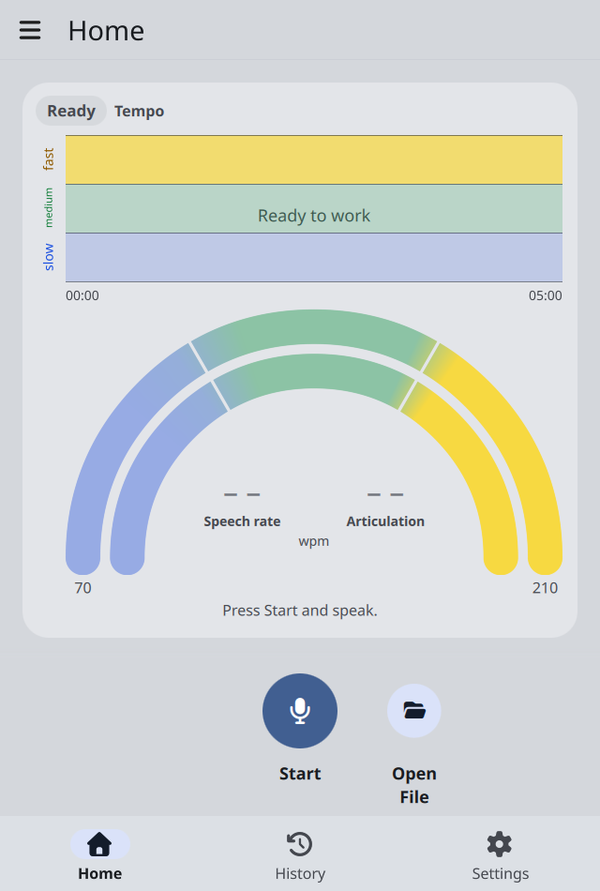
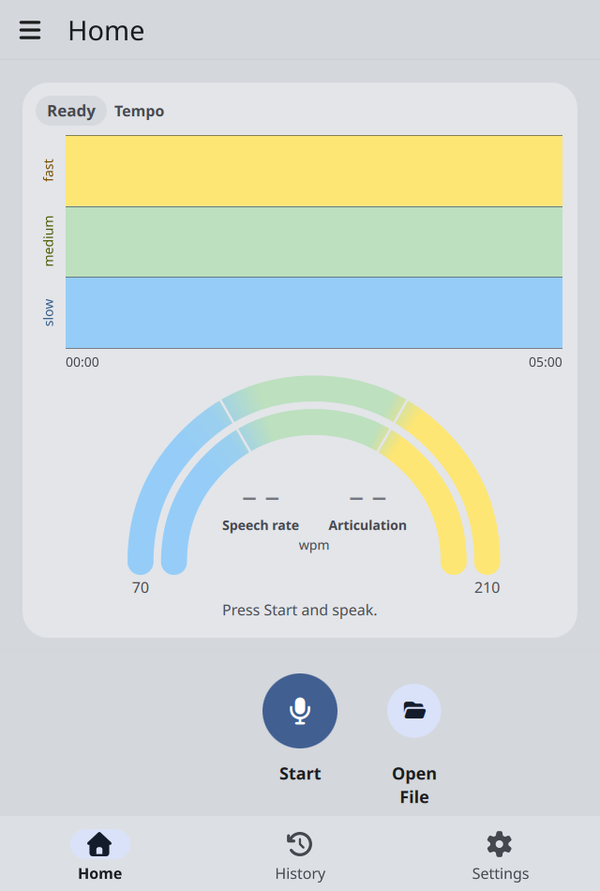
Update gauge and tempo chart colors for improved clarity
- Changed the gauge and tempo chart colors to use gold for the Fast zone instead of bright yellow, enhancing visibility for users with color-vision deficiencies.
- Adjusted the documentation in user guides and technical descriptions to reflect the new color scheme and ensure consistency across languages.
- Improved the rendering logic in the UI components to align with the updated color palette, ensuring a cohesive user experience.

Changed region(s): [[0.06, 0.1515, 0.96, 0.6667], [0.36, 0.6667, 0.63, 0.697], [0.48, 0.7879, 0.51, 0.8182]]

diff --git a/ui/utils/Theme.qml b/ui/utils/Theme.qml
@@ -436,24 +436,19 @@ Item {
     }
 
     // Speech-rate zones: 0 = Slow, 1 = Average, 2 = Fast.
-    // These inks are for the zone name and other small text. Fast is a dark
-    // gold on a light page and a light gold on a dark page, so it stays
-    // readable and is not the green of Average.
-    readonly property var zoneColorsLight: ["#1A4FE0", "#0E7C36", "#8F5A00"]
-    readonly property var zoneColorsDark: ["#6B96FF", "#3DDE6A", "#FFE08A"]
-    // Tracks and chart bands. Medium is a clear green and fast is a bright
-    // yellow, so the two zones stay apart. The chart paints slow and medium
-    // as a light wash (zoneBandAlpha) and fast a step stronger
-    // (zoneFastBandAlpha). The gauge scale uses the same hues.
-    readonly property var zoneTracksLight: ["#2E5BDE", "#149446", "#FFD400"]
-    readonly property var zoneTracksDark: ["#8AABFF", "#3DDE6A", "#FFE03A"]
+    // Inks for the zone name and other small text. Each clears 4.5:1 on the
+    // card. Fast is gold, so it stays readable and is not the green of Average.
+    readonly property var zoneColorsLight: ["#305C8A", "#4A5C00", "#7A4E00"]
+    readonly property var zoneColorsDark: ["#6B96FF", "#C6E070", "#FFE08A"]
     // Pace curves. The chart line and the arc that follows it use the same
-    // colour: articulation blue, speech rate green. They do not change
-    // with the zone.
-    readonly property color speechSeriesLight: "#1BB34A"
-    readonly property color speechSeriesDark: "#3DDE6A"
-    readonly property color articulationSeriesLight: "#1A4FE0"
-    readonly property color articulationSeriesDark: "#6B96FF"
+    // colour: articulation blue, speech rate green. They do not change with
+    // the zone. On a light page the lines are dark, and on a dark page they
+    // are light, so they stay apart from the blue, green, and gold bands
+    // and from the zone names.
+    readonly property color speechSeriesLight: "#146C2E"
+    readonly property color speechSeriesDark: "#7DFFA8"
+    readonly property color articulationSeriesLight: "#1A3FBF"
+    readonly property color articulationSeriesDark: "#D6E4FF"
     // Left inset of the tempo plot. Zone words sit here. The pace arc ends
     // line up with the coloured plot, not with this gutter.
     readonly property real chartZoneGutter: AppScale.fs(11) + 16
@@ -463,27 +458,20 @@ Item {
         return colors[Math.max(0, Math.min(2, zone))];
     }
     function zoneTrackColor(zone, theme) {
-        let colors = theme === Material.Dark ? zoneTracksDark : zoneTracksLight;
-        return colors[Math.max(0, Math.min(2, zone))];
+        return paceColor((Math.max(0, Math.min(2, zone)) + 0.5) / 3, theme);
     }
-    // Gauge scale and chart bands share these hues. Each third holds its own
-    // colour: blue, then a clear green, then a bright yellow. Fast is lighter
-    // and more yellow than the green middle, on both themes.
-    readonly property color paceSlowLight: "#2E5BDE"
-    readonly property color paceMidLight: "#149446"
-    readonly property color paceFastLight: "#FFD400"
-    readonly property color paceSlowDark: "#8AABFF"
-    readonly property color paceMidDark: "#3DDE6A"
-    readonly property color paceFastDark: "#FFE03A"
-    // Chart zone wash. Slow and medium stay faint. Fast is a stronger, purer
-    // yellow so it stays yellow on a gray card and on a near-black card,
-    // and stays apart from the green band. The curves stay in front.
-    function zoneBandAlpha(theme) {
-        return theme === Material.Dark ? 0.26 : 0.20;
-    }
-    function zoneFastBandAlpha(theme) {
-        return theme === Material.Dark ? 0.80 : 0.52;
-    }
+    // Backgrounds of the three zones, shared by the tempo chart and the arcs.
+    // Slow is blue, Average is green, Fast is gold: cool, then the normal
+    // pace, then warm. Fast is not red. Each zone is lighter than the one
+    // before it. Hue and lightness both change, so the three stay apart
+    // under protanopia, deuteranopia, and tritanopia, and the pace lines
+    // stay in front of the bands.
+    readonly property color paceSlowLight: "#95CDF8"
+    readonly property color paceMidLight: "#BDE0BF"
+    readonly property color paceFastLight: "#FDE674"
+    readonly property color paceSlowDark: "#4D5F8E"
+    readonly property color paceMidDark: "#267B3E"
+    readonly property color paceFastDark: "#A78109"
     function mixColor(c1, c2, t) {
         let u = Math.max(0, Math.min(1, t));
         return Qt.rgba(c1.r + (c2.r - c1.r) * u,

diff --git a/ui/pages/HomePage.qml b/ui/pages/HomePage.qml
@@ -156,9 +156,13 @@ Page {
     readonly property real gaugeContentWidth: Math.max(140, gaugeCardWidth - 32)
     readonly property real gaugeContentBody: Math.max(240, recordingCardHeight - 32)
     readonly property real chosenRadius: Theme.fitPaceRadius(gaugeContentWidth, gaugeContentBody, Theme.chartZoneGutter)
-    // Chart and pace arcs share this width, so the 180° ends meet the plot.
+    // Pace arcs are a quarter smaller than the semicircle that fits this card.
+    // The chart keeps that full width and takes the height the arcs give up.
+    readonly property real arcRadius: chosenRadius * 0.75
     readonly property real visualsWidth: Math.min(gaugeContentWidth,
                                                    Theme.chartZoneGutter + Theme.gaugePlotSpan(chosenRadius))
+    readonly property real arcVisualsWidth: Math.min(visualsWidth,
+                                                      Theme.chartZoneGutter + Theme.gaugePlotSpan(arcRadius))
     readonly property bool navigationLayoutFits: fitNavigation
             && layout.implicitHeight + AppScale.pagePadding * 2 <= viewportHeight + 1
 
@@ -828,8 +832,8 @@ Page {
                         Item {
                             id: gaugeSlot
                             Layout.alignment: Qt.AlignHCenter
-                            Layout.preferredWidth: root.visualsWidth
-                            Layout.maximumWidth: root.visualsWidth
+                            Layout.preferredWidth: root.arcVisualsWidth
+                            Layout.maximumWidth: root.arcVisualsWidth
                             Layout.fillHeight: false
                             readonly property real hintBlock: 4 + gaugeHint.implicitHeight + 2
                             Layout.preferredHeight: gauge.implicitHeight + hintBlock

diff --git a/ui/components/SpeechRateGauge.qml b/ui/components/SpeechRateGauge.qml
@@ -159,18 +159,12 @@ Item {
         return (1 - Math.max(0, Math.min(1, f))) / 2
     }
 
-    // Pace colours along the whole scale, toned down onto the card.
+    // Pace colours along the whole scale. Same paints as the chart bands.
     component PaceGradient: ConicalGradient {
         id: pace
-        property real alpha: 0.4
         property var gauge: root
         function tone(f) {
-            // Fast is a brighter yellow than a single wash would show, on the
-            // scale as well as on the chart. Slow and medium stay faint.
-            var a = pace.alpha
-            if (f >= 0.70)
-                a = pace.gauge.paintTheme === Material.Dark ? 0.88 : 0.72
-            return pace.gauge.paintOnCard(Theme.paceColor(f, pace.gauge.paintTheme), a)
+            return Theme.paceColor(f, pace.gauge.paintTheme)
         }
         centerX: gauge.cx
         centerY: gauge.cy
@@ -221,9 +215,7 @@ Item {
         strokeWidth: live ? gauge.stroke : 0
         strokeColor: "transparent"
         capStyle: ShapePath.RoundCap
-        strokeGradient: PaceGradient {
-            alpha: track.gauge.paintTheme === Material.Dark ? 0.36 : 0.42
-        }
+        strokeGradient: PaceGradient { }
 
         PathAngleArc {
             centerX: track.gauge.cx

diff --git a/ui/components/TempoChart.qml b/ui/components/TempoChart.qml
@@ -302,17 +302,13 @@ Item {
                 return top + (1 - (value - yMin) / valueSpan) * plotHeight
             }
 
-            // Horizontal bands match the gauge scale. Each band is the hue
-            // at the middle of that third. Fast is a brighter yellow and a
-            // slightly stronger wash so it stays apart from the green band.
+            // Horizontal bands match the gauge. Slow is blue, medium is
+            // green, fast is gold, and each band is lighter than the one below.
             var bandH = plotHeight / 3
             for (var zone = 0; zone < 3; ++zone) {
                 var yTop = top + (2 - zone) * bandH
                 var yBot = zone === 0 ? top + plotHeight : yTop + bandH
-                var bandAlpha = zone === 2
-                                ? Theme.zoneFastBandAlpha(root.paintTheme)
-                                : Theme.zoneBandAlpha(root.paintTheme)
-                ctx.fillStyle = Qt.alpha(Theme.paceColor((zone + 0.5) / 3, root.paintTheme), bandAlpha)
+                ctx.fillStyle = Theme.paceColor((zone + 0.5) / 3, root.paintTheme)
                 ctx.fillRect(left, yTop, plotWidth, Math.max(1, yBot - yTop))
             }
 

diff --git a/docs/TECHNICAL_DESCRIPTION_ru.md b/docs/TECHNICAL_DESCRIPTION_ru.md
@@ -45,7 +45,7 @@
 
 Главная не показывает карточки со значениями. Сохранённый результат по-прежнему использует для речи `Суммарное время, засчитанное как речь`, для артикуляции `Темп во время речи, без промежутков`, для заполнителей `Затянутые звуки, не слова`, для пауз `Длинные промежутки, не вся тишина`.
 
-Шкала — полукруг 180°, минимум слева, максимум справа. Концы обводки дуг темпа доходят до левого и правого края графика темпа над ней. На низком окне график и дуги делят более узкую ширину, чтобы графику осталось около 140 пикселей высоты, и концы всё равно совпадают. Она делится на три равные зоны, Медленно / Средне / Быстро. Эти зоны — шкала, по которой идёт значение. Шкала держит один оттенок в каждой трети: синий в «медленно», зелёный в «средне», яркий жёлтый в «быстро». Светлые оттенки — `#2E5BDE`, `#149446` и `#FFD400`. Тёмные — `#8AABFF`, `#3DDE6A` и `#FFE03A`. Зоны разделяет тонкий промежуток. Полосы графика используют те же оттенки ровной заливкой: «медленно» и «средне» с прозрачностью 0.20 в светлой теме и 0.26 в тёмной, «быстро» ярче — 0.52 и 0.80, и с тонкой линией на каждой границе. Линии темпа остаются в полную силу. Быстрый конец светлее зелёного среднего поля, и шкала не становится красной. Обводка значения одного цвета на всей дуге, того же, что и этот темп на графике: темп речи `#1BB34A` (тёмная `#3DDE6A`), артикуляция `#1A4FE0` (тёмная `#6B96FF`). От зоны цвет не меняется. Круглый маркер стоит на значении в том же цвете ряда. Слова зон на графике — читаемые чернила зоны (светлая `#1A4FE0` / `#0E7C36` / `#8F5A00`, тёмная `#6B96FF` / `#3DDE6A` / `#FFE08A`). Внутри дуг у каждого кольца целое стоит над именем. При «Оба» треугольник смотрит вверх: «Заполнители» — вершина, по центру верхнего ряда, а «Темп речи» и «Артикуляция» рядом на более широком ряду ниже. При одном темпе этот блок и «Заполнители» стоят рядом. Каждое имя в цвете своего кольца. `сл/мин` стоит под блоками темпа. 70 и 210 остаются на концах диаметра. На низком окне свободный круг внутри самого внутреннего кольца меньше, поэтому шрифт уменьшается, чтобы поместиться: подпись темпа — меньшее из 11 пикселей и ширины одного нижнего блока, делённой на самое длинное имя, и не ниже 8 пикселей. Вершина — узкая часть этого круга, поэтому имя «Заполнители» сжимается ещё, по хорде в этом месте, и всё равно не ниже 8 пикселей. Числа занимают оставшуюся высоту. Пока идёт запись, главная скрывает эти целые; имена остаются, и дуги продолжают двигаться, как только они на экране. Числа возвращаются после «Стоп», после «Открыть файл» и для сохранённого результата. Значение анимируется к каждому новому обновлению. Числа под концами дуги — Min RS и Max RS. По умолчанию: 70 и 210. Если напечатанный темп вне этого диапазона, маркер остаётся на ближнем конце, а число по-прежнему показывает истинное значение. Когда «Шкала» равна «Оба», артикуляция сидит внутри темпа речи, со своим маркером и теми же тремя дорожками зон. Темп речи — внешняя дуга, артикуляция — средняя. В любом режиме заполнители — ещё одно кольцо внутри той дуги темпа, которая показана: самое внутреннее, на том же центре, с той же обводкой и тем же разворотом 180°. До графика доходит внешняя обводка. Дорожка заполнителей — тот же градиент. Обводка её значения красная (светлая `#E0312B`, тёмная `#FF5C48`), по шкале 0–100, и от зоны не меняется. Подписи 0 и 100 убраны: эти концы лежат на том же диаметре, где уже стоят Min RS и Max RS. В середине — треугольник из целого и имени, вершиной вверх: «Заполнители» по центру верхнего ряда, затем «Темп речи» и «Артикуляция» рядом, а `сл/мин` под этими двумя. При одном темпе два блока стоят рядом, а `сл/мин` остаётся под блоком темпа. Число заполнителей появляется вместе с остальными целыми после «Стоп», после «Открыть файл» и для сохранённого результата и скрыто, пока идёт запись. Дуга остаётся на экране, когда «Показывать плитку заполнителей» выключена: этот переключатель прячет только карточку. Доля — процент из раздела 6.5. Пока сеанс идёт, в открытой части полукруга, между подписями концов, стоят значок микрофона и полоса цвета primary темы. Полоса — квадратный корень того же уровня микрофона, от которого растёт ореол кнопки «Старт», поэтому тихая речь всё равно её двигает. В тишине полоса пуста, а значок приглушён. Когда сеанс выключен, индикатора нет; в истории его тоже нет.
+Шкала — полукруг 180°, минимум слева, максимум справа. Концы обводки дуг темпа доходят до левого и правого края графика темпа над ней. На низком окне график и дуги делят более узкую ширину, чтобы графику осталось около 140 пикселей высоты, и концы всё равно совпадают. Она делится на три равные зоны, Медленно / Средне / Быстро. Эти зоны — шкала, по которой идёт значение. Шкала держит один оттенок в каждой трети: синий в «медленно», зелёный в «средне», золотистый в «быстро». Светлые цвета — `#95CDF8`, `#BDE0BF` и `#FDE674`. Тёмные — `#4D5F8E`, `#267B3E` и `#A78109`. Зоны разделяет тонкий промежуток. Полосы графика и дорожки дуг используют эти цвета ровной заливкой, одной и той же на обоих, с тонкой линией на каждой границе. Каждая зона светлее той, что ниже, так что ступени различимы и при нарушении цветового зрения, а линии темпа остаются впереди. Быстрый конец — самое светлое поле, и шкала не становится красной. Обводка значения одного цвета на всей дуге, того же, что и этот темп на графике: темп речи `#146C2E` (тёмная `#7DFFA8`), артикуляция `#1A3FBF` (тёмная `#D6E4FF`). От зоны цвет не меняется. На светлой странице линии тёмные, на тёмной — светлые, так что зелёная линия не сливается с зелёной полосой, а синяя — с синей. Круглый маркер стоит на значении в том же цвете ряда. Слова зон на графике — читаемые чернила зоны (светлая `#305C8A` / `#4A5C00` / `#7A4E00`, тёмная `#6B96FF` / `#C6E070` / `#FFE08A`). Внутри дуг у каждого кольца целое стоит над именем. При «Оба» треугольник смотрит вверх: «Заполнители» — вершина, по центру верхнего ряда, а «Темп речи» и «Артикуляция» рядом на более широком ряду ниже. При одном темпе этот блок и «Заполнители» стоят рядом. Каждое имя в цвете своего кольца. `сл/мин` стоит под блоками темпа. 70 и 210 остаются на концах диаметра. На низком окне свободный круг внутри самого внутреннего кольца меньше, поэтому шрифт уменьшается, чтобы поместиться: подпись темпа — меньшее из 11 пикселей и ширины одного нижнего блока, делённой на самое длинное имя, и не ниже 8 пикселей. Вершина — узкая часть этого круга, поэтому имя «Заполнители» сжимается ещё, по хорде в этом месте, и всё равно не ниже 8 пикселей. Числа занимают оставшуюся высоту. Пока идёт запись, главная скрывает эти целые; имена остаются, и дуги продолжают двигаться, как только они на экране. Числа возвращаются после «Стоп», после «Открыть файл» и для сохранённого результата. Значение анимируется к каждому новому обновлению. Числа под концами дуги — Min RS и Max RS. По умолчанию: 70 и 210. Если напечатанный темп вне этого диапазона, маркер остаётся на ближнем конце, а число по-прежнему показывает истинное значение. Когда «Шкала» равна «Оба», артикуляция сидит внутри темпа речи, со своим маркером и теми же тремя дорожками зон. Темп речи — внешняя дуга, артикуляция — средняя. В любом режиме заполнители — ещё одно кольцо внутри той дуги темпа, которая показана: самое внутреннее, на том же центре, с той же обводкой и тем же разворотом 180°. До графика доходит внешняя обводка. Дорожка заполнителей — тот же градиент. Обводка её значения красная (светлая `#E0312B`, тёмная `#FF5C48`), по шкале 0–100, и от зоны не меняется. Подписи 0 и 100 убраны: эти концы лежат на том же диаметре, где уже стоят Min RS и Max RS. В середине — треугольник из целого и имени, вершиной вверх: «Заполнители» по центру верхнего ряда, затем «Темп речи» и «Артикуляция» рядом, а `сл/мин` под этими двумя. При одном темпе два блока стоят рядом, а `сл/мин` остаётся под блоком темпа. Число заполнителей появляется вместе с остальными целыми после «Стоп», после «Открыть файл» и для сохранённого результата и скрыто, пока идёт запись. Дуга остаётся на экране, когда «Показывать плитку заполнителей» выключена: этот переключатель прячет только карточку. Доля — процент из раздела 6.5. Пока сеанс идёт, в открытой части полукруга, между подписями концов, стоят значок микрофона и полоса цвета primary темы. Полоса — квадратный корень того же уровня микрофона, от которого растёт ореол кнопки «Старт», поэтому тихая речь всё равно её двигает. В тишине полоса пуста, а значок приглушён. Когда сеанс выключен, индикатора нет; в истории его тоже нет.
 
 Главная, сверху вниз:
 

diff --git a/docs/TECHNICAL_DESCRIPTION.md b/docs/TECHNICAL_DESCRIPTION.md
@@ -41,7 +41,7 @@ Gauge (`General/gaugeMode`, default Speech rate) chooses what the arc draws. Spe
 
 Home does not show the value cards. A saved result uses Speech `Total time counted as speech`, Articulation `Pace while speaking, gaps left out`, Fillers `Drawn-out sounds, not words`, and Pauses `Longer gaps, not all silence`.
 
-The gauge is a 180° semicircle, minimum at the left and maximum at the right. The ends of the pace-arc stroke meet the left and right edges of the tempo chart above it. On a short window the chart and the arcs share a narrower width so the chart keeps about 140 px of height and the ends still meet. It is split into three equal zones, Slow / Average / Fast. Those zones are the scale the value runs on. The scale holds one hue in each third: blue through Slow, green through Average, and a bright yellow through Fast. Light hues are `#2E5BDE`, `#149446`, and `#FFD400`. Dark hues are `#8AABFF`, `#3DDE6A`, and `#FFE03A`. A thin gap separates the three zones. The chart bands use those same hues as a flat wash, alpha 0.20 on a light theme and 0.26 on a dark theme for Slow and Average. Fast uses a higher alpha, 0.52 light and 0.80 dark, so the yellow stays bright on both cards, with a thin line on each border. The pace lines stay at full strength. Fast stays lighter than the green average field, and the scale does not turn red. The value stroke is one colour for the whole arc, the same colour as that pace on the chart: speech rate `#1BB34A` (dark `#3DDE6A`), articulation `#1A4FE0` (dark `#6B96FF`). It does not change with the zone. A round marker sits at the value in that series colour. The zone words on the chart use a readable ink of the zone (light `#1A4FE0` / `#0E7C36` / `#8F5A00`, dark `#6B96FF` / `#3DDE6A` / `#FFE08A`). Inside the arcs, each ring has its integer above its name. With both paces the triangle points up: Fillers is the apex, centred on the upper row, and Speech rate and Articulation sit side by side on the wider row below. With one pace, that block and Fillers sit side by side. Each name uses the colour of its ring. `wpm` sits with the pace blocks, under them. 70 and 210 stay at the ends of the diameter. On a short window the clear disc inside the innermost ring is smaller, so the type shrinks to fit: a pace caption is the smaller of 11 px and the width of one lower block divided across the longest name, and it is never below 8 px. The apex is the narrow part of that disc, so the Fillers name shrinks further to the chord there, still not below 8 px. The numbers use the height that remains. While recording, Home prints those integers above the names, and the arcs keep moving once they are on screen. After Stop, after Open File, and for a saved result the same place shows the session summary. The value animates to each new update. The numbers under the two ends are Min RS and Max RS. Defaults: 70 and 210. If the printed rate sits outside that range, the marker rests on the near end and the number still shows the real value. When Gauge is Both, articulation sits inside speech rate, with its own marker and the same three zone tracks. Speech rate is the outer arc and articulation is the middle one. Either way, fillers is one more ring inside the pace arc that is showing: the innermost, on the same centre, with the same stroke and the same 180° sweep. The outer stroke is what meets the chart. The fillers track is that same gradient. Its value stroke is red (light `#E0312B`, dark `#FF5C48`), on a 0–100 scale, and it does not change with the zone. The 0 and 100 captions are omitted, because those ends share the diameter already labeled with Min RS and Max RS. The middle is a triangle of integer and name pointing up: Fillers centred on the upper row, then Speech rate and Articulation side by side, with `wpm` under those two. With one pace the two blocks sit side by side and `wpm` stays under the pace block. The fillers integer appears with the other integers while recording, after Stop, after Open File, and for a saved result. The arc stays on screen when Show Fillers tile is off; that switch only hides the card. The share is the percent from section 6.5. While a session is on, a microphone mark and a bar sit in the open part of the semicircle, between the end labels, in the theme primary color. The bar is the square root of the same microphone level that grows the Start button halo, so quiet speech still moves it. Silence leaves the bar empty and the mark muted. The meter is hidden when the session is off, and History does not show it.
+The gauge is a 180° semicircle, minimum at the left and maximum at the right. The ends of the pace-arc stroke meet the left and right edges of the tempo chart above it. On a short window the chart and the arcs share a narrower width so the chart keeps about 140 px of height and the ends still meet. It is split into three equal zones, Slow / Average / Fast. Those zones are the scale the value runs on. The scale holds one hue in each third: blue through Slow, green through Average, and gold through Fast. Light colours are `#95CDF8`, `#BDE0BF`, and `#FDE674`. Dark colours are `#4D5F8E`, `#267B3E`, and `#A78109`. A thin gap separates the three zones. The chart bands and the arc tracks use those colours flat, the same paint on both, with a thin line on each border. Each zone is lighter than the one below it, so the steps stay apart for people with colour-vision deficiency, and the pace lines stay in front. Fast stays the lightest field, and the scale does not turn red. The value stroke is one colour for the whole arc, the same colour as that pace on the chart: speech rate `#146C2E` (dark `#7DFFA8`), articulation `#1A3FBF` (dark `#D6E4FF`). It does not change with the zone. On a light page the lines are dark, and on a dark page they are light, so a green line stays apart from the green band and a blue line stays apart from the blue band. A round marker sits at the value in that series colour. The zone words on the chart use a readable ink of the zone (light `#305C8A` / `#4A5C00` / `#7A4E00`, dark `#6B96FF` / `#C6E070` / `#FFE08A`). Inside the arcs, each ring has its integer above its name. With both paces the triangle points up: Fillers is the apex, centred on the upper row, and Speech rate and Articulation sit side by side on the wider row below. With one pace, that block and Fillers sit side by side. Each name uses the colour of its ring. `wpm` sits with the pace blocks, under them. 70 and 210 stay at the ends of the diameter. On a short window the clear disc inside the innermost ring is smaller, so the type shrinks to fit: a pace caption is the smaller of 11 px and the width of one lower block divided across the longest name, and it is never below 8 px. The apex is the narrow part of that disc, so the Fillers name shrinks further to the chord there, still not below 8 px. The numbers use the height that remains. While recording, Home prints those integers above the names, and the arcs keep moving once they are on screen. After Stop, after Open File, and for a saved result the same place shows the session summary. The value animates to each new update. The numbers under the two ends are Min RS and Max RS. Defaults: 70 and 210. If the printed rate sits outside that range, the marker rests on the near end and the number still shows the real value. When Gauge is Both, articulation sits inside speech rate, with its own marker and the same three zone tracks. Speech rate is the outer arc and articulation is the middle one. Either way, fillers is one more ring inside the pace arc that is showing: the innermost, on the same centre, with the same stroke and the same 180° sweep. The outer stroke is what meets the chart. The fillers track is that same gradient. Its value stroke is red (light `#E0312B`, dark `#FF5C48`), on a 0–100 scale, and it does not change with the zone. The 0 and 100 captions are omitted, because those ends share the diameter already labeled with Min RS and Max RS. The middle is a triangle of integer and name pointing up: Fillers centred on the upper row, then Speech rate and Articulation side by side, with `wpm` under those two. With one pace the two blocks sit side by side and `wpm` stays under the pace block. The fillers integer appears with the other integers while recording, after Stop, after Open File, and for a saved result. The arc stays on screen when Show Fillers tile is off; that switch only hides the card. The share is the percent from section 6.5. While a session is on, a microphone mark and a bar sit in the open part of the semicircle, between the end labels, in the theme primary color. The bar is the square root of the same microphone level that grows the Start button halo, so quiet speech still moves it. Silence leaves the bar empty and the mark muted. The meter is hidden when the session is off, and History does not show it.
 
 Home, from top to bottom:
 

diff --git a/docs/user_guide_ru.md b/docs/user_guide_ru.md
@@ -44,9 +44,9 @@
 
 ## Что видно на главной
 
-**Шкала.** Дуга — полукруг. Её концы доходят до левого и правого края графика над ней. Она идёт от **Медленно** до **Быстро** и делится поровну на Медленно, Средне и Быстро. Дорожка держит один цвет в каждой трети: синий для «медленно», зелёный для «средне» и яркий жёлтый для «быстро», с тонким промежутком между зонами. Линия текущего темпа одного цвета, того же, что и этот темп на графике: зелёный для темпа речи, синий для артикуляции. По умолчанию она показывает оба темпа. Напечатанное число — измеренный темп. Указатель остаётся внутри диапазона «медленно–быстро»: если темп выходит за край, число всё равно печатается как есть, а указатель стоит на краю. Внутри дуг каждое число стоит над своим именем, низко, у нижнего края дуг. При обоих темпах **Темп речи** и **Артикуляция** стоят рядом. При одном темпе это имя по центру. Каждое имя в цвете своего кольца. **сл/мин** остаётся при числах темпа. 70 и 210 остаются на концах. На низком окне слова уменьшаются, чтобы остаться внутри дуг.
+**Шкала.** Дуга — полукруг. Её концы доходят до левого и правого края графика над ней. Она идёт от **Медленно** до **Быстро** и делится поровну на Медленно, Средне и Быстро. Дорожка держит один цвет в каждой трети: синий для «медленно», зелёный для «средне» и золотистый для «быстро», с тонким промежутком между зонами. Каждая треть светлее предыдущей, так что три зоны различимы и при нарушении цветового зрения. Линия текущего темпа одного цвета, того же, что и этот темп на графике: зелёный для темпа речи, синий для артикуляции. По умолчанию она показывает оба темпа. Напечатанное число — измеренный темп. Указатель остаётся внутри диапазона «медленно–быстро»: если темп выходит за край, число всё равно печатается как есть, а указатель стоит на краю. Внутри дуг каждое число стоит над своим именем, низко, у нижнего края дуг. При обоих темпах **Темп речи** и **Артикуляция** стоят рядом. При одном темпе это имя по центру. Каждое имя в цвете своего кольца. **сл/мин** остаётся при числах темпа. 70 и 210 остаются на концах. На низком окне слова уменьшаются, чтобы остаться внутри дуг.
 
-**График темпа.** Каждая точка — одно живое обновление, с тем же темпом, что и дуги. График хранит последние секунды **окна графика** (по умолчанию 5 минут). Он использует те же три цвета, что и дорожка шкалы, и подписывает полосы «медленно», «средне» и «быстро» снизу вверх. Каждая полоса — ровная заливка своего цвета: достаточно светлая, чтобы кривые оставались впереди, и достаточно ясная, чтобы зелёная средняя и более яркая жёлтая быстрая не сливались. Тонкая линия отмечает каждую границу. Числа он не повторяет: они остаются под концами дуги. Линии того же цвета, что и дуги.
+**График темпа.** Каждая точка — одно живое обновление, с тем же темпом, что и дуги. График хранит последние секунды **окна графика** (по умолчанию 5 минут). Он использует те же три цвета, что и дорожка шкалы, и подписывает полосы «медленно», «средне» и «быстро» снизу вверх. Каждая полоса — ровная заливка своего цвета, достаточно светлая, чтобы кривые оставались впереди. Медленная — синяя, средняя — зелёная, быстрая — золотистая, и каждая светлее той, что ниже, так что три полосы различимы и при нарушении цветового зрения. Тонкая линия отмечает каждую границу. Числа он не повторяет: они остаются под концами дуги. Линии того же цвета, что и дуги.
 
 **Метка** в углу шкалы говорит, в каком состоянии приложение:
 

diff --git a/README.md b/README.md
@@ -43,7 +43,7 @@ Speech rate is vowels per minute scaled into words per minute (`K1`, default 0.4
 
 Home is the only screen with the record button.
 
-- A **gauge** (180° semicircle, Slow / Average / Fast) shows the current pace. By default that is speech rate. Settings can switch it to articulation, or draw both paces as two arcs, speech rate outside and articulation inside. The ends of the outer arc meet the chart above them. The track holds one colour in each third, blue then green then a bright yellow, with a thin gap between the zones. The chart bands use those same colours as a light wash, and the fast band is a stronger yellow. The line that marks the pace matches the chart line (green for speech rate, blue for articulation). The marker sits between Slow and Fast (70 and 210 wpm by default). Inside the arcs, each number sits above its name, low, near the bottom edge of the arcs. With both paces, speech rate and articulation sit side by side. With one pace, that name is centred. On a short window the words shrink so they stay inside the rings. The printed number is the real value, above its name, while recording and after Stop and Open File. While a session is recording, the arcs and the tempo chart stay on screen. Until five live readings have arrived, "Everything is working. Calculating. About N s left." blinks on top of them, with a feathered edge, and does not take touches. N is the estimated seconds until the fifth reading. After that the message goes away and the integers stay on the arcs. A point is added every analysis window (10 s by default), at the same median the arcs use, and the chart keeps a sliding window (5 min by default, **Chart window** in Settings). After Stop the arcs show the averages and the chart stays above them, even when fewer than five readings had arrived. Open File does not wait. Home does not show the value cards. A halo around Start / Stop follows the microphone level.
+- A **gauge** (180° semicircle, Slow / Average / Fast) shows the current pace. By default that is speech rate. Settings can switch it to articulation, or draw both paces as two arcs, speech rate outside and articulation inside. The ends of the outer arc meet the chart above them. The track holds one colour in each third, blue then green then gold, with a thin gap between the zones. The chart bands use those same colours. Each zone is lighter than the one below it, so the three stay apart for people with colour-vision deficiency. The line that marks the pace matches the chart line (green for speech rate, blue for articulation). The marker sits between Slow and Fast (70 and 210 wpm by default). Inside the arcs, each number sits above its name, low, near the bottom edge of the arcs. With both paces, speech rate and articulation sit side by side. With one pace, that name is centred. On a short window the words shrink so they stay inside the rings. The printed number is the real value, above its name, while recording and after Stop and Open File. While a session is recording, the arcs and the tempo chart stay on screen. Until five live readings have arrived, "Everything is working. Calculating. About N s left." blinks on top of them, with a feathered edge, and does not take touches. N is the estimated seconds until the fifth reading. After that the message goes away and the integers stay on the arcs. A point is added every analysis window (10 s by default), at the same median the arcs use, and the chart keeps a sliding window (5 min by default, **Chart window** in Settings). After Stop the arcs show the averages and the chart stays above them, even when fewer than five readings had arrived. Open File does not wait. Home does not show the value cards. A halo around Start / Stop follows the microphone level.
 - A round **Start / Stop** button. While the session is on, a halo around it grows with the microphone level. On a wide window it sits beside the chart. **Show Whole recording tile** can add that summary there after Stop or Open File.
 - A status chip names the state (Ready, Listening, Too short, Measuring, Too short to save, Microphone blocked, and Mean values after Stop). During a session the gauge card gets a pulsing red outline and a red badge with the time since Start (`mm:ss`); other pages show it in the toolbar. The gauge is labeled with the pace it shows.
 

diff --git a/docs/user_guide_en.md b/docs/user_guide_en.md
@@ -44,9 +44,9 @@ A measured WAV. The hint reads **This recording**. **Whole recording** compares 
 
 ## What you see on Home
 
-**The gauge.** The arc is a semicircle. Its ends meet the left and right edges of the chart above it. It runs from **Slow** to **Fast** and is split equally into Slow, Average, and Fast. The track holds one colour in each third: blue through Slow, green through Average, and a bright yellow through Fast, with a thin gap between the zones. The line that marks the current pace is one colour, the same colour as that pace on the chart: green for speech rate, blue for articulation. By default it shows both paces. The printed number is the measured pace. The marker stays inside the Slow–Fast range, so a pace outside that range still prints its real number while the marker sits at the end. Inside the arcs, each number sits above its name, low, near the bottom edge of the arcs. With both paces, **Speech rate** and **Articulation** sit side by side. With one pace, that name is centred. Each name uses the colour of its ring. **wpm** stays with the pace numbers. 70 and 210 stay at the ends. On a short window the words shrink so they stay inside the rings.
+**The gauge.** The arc is a semicircle. Its ends meet the left and right edges of the chart above it. It runs from **Slow** to **Fast** and is split equally into Slow, Average, and Fast. The track holds one colour in each third: blue through Slow, green through Average, and gold through Fast, with a thin gap between the zones. Each third is lighter than the one before it, so the three stay apart for people with colour-vision deficiency. The line that marks the current pace is one colour, the same colour as that pace on the chart: green for speech rate, blue for articulation. By default it shows both paces. The printed number is the measured pace. The marker stays inside the Slow–Fast range, so a pace outside that range still prints its real number while the marker sits at the end. Inside the arcs, each number sits above its name, low, near the bottom edge of the arcs. With both paces, **Speech rate** and **Articulation** sit side by side. With one pace, that name is centred. Each name uses the colour of its ring. **wpm** stays with the pace numbers. 70 and 210 stay at the ends. On a short window the words shrink so they stay inside the rings.
 
-**The tempo chart.** Each point is one live update, at the same pace the arcs are using. The chart keeps the last **Chart window** (5 minutes by default). It uses the same three colours as the gauge track and labels the bands slow, medium, and fast, written upward. Each band is a flat wash of that colour, light enough that the curves stay in front and strong enough that medium green and the brighter fast yellow stay apart. A thin line marks each border. It does not repeat the Slow and Fast numbers. Those numbers stay under the ends of the arc. The lines use the same colours as the arcs.
+**The tempo chart.** Each point is one live update, at the same pace the arcs are using. The chart keeps the last **Chart window** (5 minutes by default). It uses the same three colours as the gauge track and labels the bands slow, medium, and fast, written upward. Each band is a flat fill of that colour, light enough that the curves stay in front. Slow is blue, medium is green, and fast is gold, and each band is lighter than the one below it so the three stay apart for people with colour-vision deficiency. A thin line marks each border. It does not repeat the Slow and Fast numbers. Those numbers stay under the ends of the arc. The lines use the same colours as the arcs.
 
 **The chip** in the corner of the gauge tells you the state:
 
